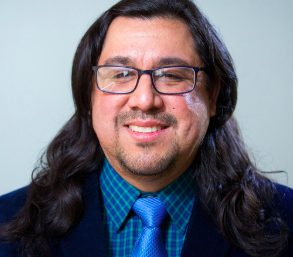
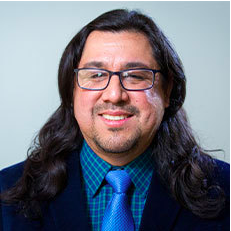
added instructor panel feedback

diff --git a/src/main/resources/templates/about.html b/src/main/resources/templates/about.html
@@ -10,7 +10,7 @@
 
     <div class="card-deck pl-5 pr-4 pb-5">
         <div class="card" style="border: 2px solid darkgreen;">
-            <img class="card-img-top about_us_pics mx-auto mt-3" src="img/ted.png" alt="Teodoro Zamarron">
+            <img class="card-img-top about_us_pics mx-auto mt-4" src="img/ted.png" alt="Teodoro Zamarron">
             <div class="card-body">
                 <h5 class="card-title text-center">Teodoro Zamarron</h5>
                 <p class="card-text text-justify text-muted">I am an Army Veteran software developer with the drive to grow and learn from my surroundings. A keen eye for detail and adaptability has helped me overcome obstacles swiftly and effectively.</p>
@@ -30,7 +30,7 @@
             </div>
         </div>
         <div class="card" style="border: 2px solid darkgreen">
-            <img class="card-img-top about_us_pics mx-auto mt-3" src="img/guillermo.png" alt="Guillermo De Leon">
+            <img class="card-img-top about_us_pics mx-auto mt-4" src="img/guillermo.png" alt="Guillermo De Leon">
             <div class="card-body">
                 <h5 class="card-title text-center">Guillermo De Leon</h5>
                 <p class="card-text text-justify text-muted">With more than 10 years of IT client services experience looking to become a valuable asset in a dynamic team environment. Eager to embrace new challenges that will allow me to design solutions that focus on the end user experience.</p>
@@ -49,7 +49,7 @@
             </div>
         </div>
         <div class="card" style="border: 2px solid darkgreen">
-            <img class="card-img-top about_us_pics mx-auto mt-3" src="img/jimmy2.png" alt="James Muralles">
+            <img class="card-img-top about_us_pics mx-auto mt-4" src="img/jimmy2.png" alt="James Muralles" id="jimmy">
             <div class="card-body">
                 <h5 class="card-title text-center">James Muralles</h5>
                 <p class="card-text text-justify text-muted">A hard working developer who learns quickly and performs efficiently. Motivation to gain knowledge and solve problems drives my ambition. The 6 years of military experience has taught me that teamwork is the driving force in accomplishing all goals and tasks at hand.</p>
@@ -68,7 +68,7 @@
             </div>
         </div>
         <div class="card" style="border: 2px solid darkgreen">
-            <img class="card-img-top about_us_pics mx-auto mt-3" src="img/anthony.png" alt="Anthony San Miguel">
+            <img class="card-img-top about_us_pics mx-auto mt-4" src="img/anthony.png" alt="Anthony San Miguel">
             <div class="card-body">
                 <h5 class="card-title text-center">Anthony San Miguel</h5>
                 <p class="card-text text-justify text-muted">Goal-oriented software developer with an open mind, collaborative work style, and solutions oriented problem-solving skills. Committed to high standards of user experience and user interface designs.</p>

diff --git a/src/main/resources/templates/user/profile.html b/src/main/resources/templates/user/profile.html
@@ -33,15 +33,15 @@
             <span th:text="${bill.name} + ' is due on ' + ${bill.dueDate}"></span>
         </div>
 
-        <h3 style="text-decoration-line: underline">Overdue Bills</h3>
+        <h3 style="text-decoration-line: underline; margin-top: 10%">Overdue Bills</h3>
         <div th:each="bill : ${overdueBills}" style="margin-top: 3%; margin-bottom: 3%">
             <span th:text="${bill.name} + ' was due on ' + ${bill.dueDate}" style="color: red"></span>
         </div>
 
-        <h3 style="text-decoration-line: underline">Goal Tracker</h3>
+        <h3 style="text-decoration-line: underline; margin-top: 10%">Goal Tracker</h3>
         <div th:each="budget : ${newGoal}" style="margin-top: 3%; margin-bottom: 6%">
             <label th:text="${budget.name}"></label>
-            <label class="float-right">Goal:<span class="money-td" th:text="'$' + ${(budget.balance_in_cents - budget.goal_funds)/100}">
+            <label class="float-right">Goal: <span class="money-td" th:text="'$' + ${(budget.balance_in_cents - budget.goal_funds)/100}">
                 </span></label>
             <div class="progress border border-dark mt-1"
                  style="height: 25px; width: 430px; background-color: lightskyblue">

diff --git a/src/main/resources/static/css/style.css b/src/main/resources/static/css/style.css
@@ -38,6 +38,7 @@ table{
 }
 
 /* Add button for the Bills page */
+
 #addBButton {
     width: 35px;
 }
@@ -59,8 +60,7 @@ table{
     vertical-align: middle;
 }
 
-.modal-backdrop
-{
+.modal-backdrop {
     opacity:0.4 !important;
 }
 
@@ -81,8 +81,13 @@ table{
 }
 
 .about_us_pics {
-    width: 237px;
-    height: 204px;
+    width: 234px;
+    height: 224px;
+}
+
+#jimmy {
+    width: 234px;
+    height: 224px;
 }
 
 .table-button{
@@ -90,7 +95,7 @@ table{
 }
 
 #donutchart-trans{
-margin-right: 153px;
+    margin-right: 153px;
 }
 
 #navbar-title {
@@ -303,30 +308,27 @@ margin-right: 153px;
 
 #edit_profile{
     border: transparent;
-    background-color: goldenrod;
-}
-
-#edit_profile i{
-    color: black;
+    background-color: gold;
 }
 
 #delete_profile{
     border: transparent;
-    background-color: indianred;
+    background-color: red;
 }
 
-#delete_profile i{
-    color: black;
-}
+/*#delete_profile i{*/
+/*    color: black;*/
+/*}*/
 
 #backProfile{
     border: transparent;
-    background-color: goldenrod;
+    background-color: gold;
+    color: white;
 }
 
-#backProfile i{
-    color: black;
-}
+/*#backProfile i{*/
+/*    color: black;*/
+/*}*/
 
 .cancel{
     background-color: red;

diff --git a/src/main/resources/templates/budget/index.html b/src/main/resources/templates/budget/index.html
@@ -70,7 +70,7 @@
 </div>
 
 <div class="text-center">
-    <button type="button" id="addBButton" class="btn btn-primary p-2 w-auto" data-toggle="modal"
+    <button type="button" id="addBButton" class="btn btn-primary p-2 w-auto mt-3" data-toggle="modal"
         data-target="#addGoalModal"><i class="fas fa-plus mr-2"></i>Add a Goal
     </button>
 </div>
@@ -127,7 +127,7 @@
                     </div>
                     <div class="modal-footer d-flex justify-content-around">
                         <button type="button" class="btn btn-danger cancel" data-dismiss="modal"><i class="fas fa-ban mr-2"></i>Cancel</button>
-                        <button type="submit" class="btn btn-success"><i class="fas fa-dollar-bill mr-2"></i>Add Funds</button>
+                        <button type="submit" class="btn btn-success"><i class="fas fa-dollar-sign mr-2"></i>Add Funds</button>
                     </div>
                 </form>
             </div>
